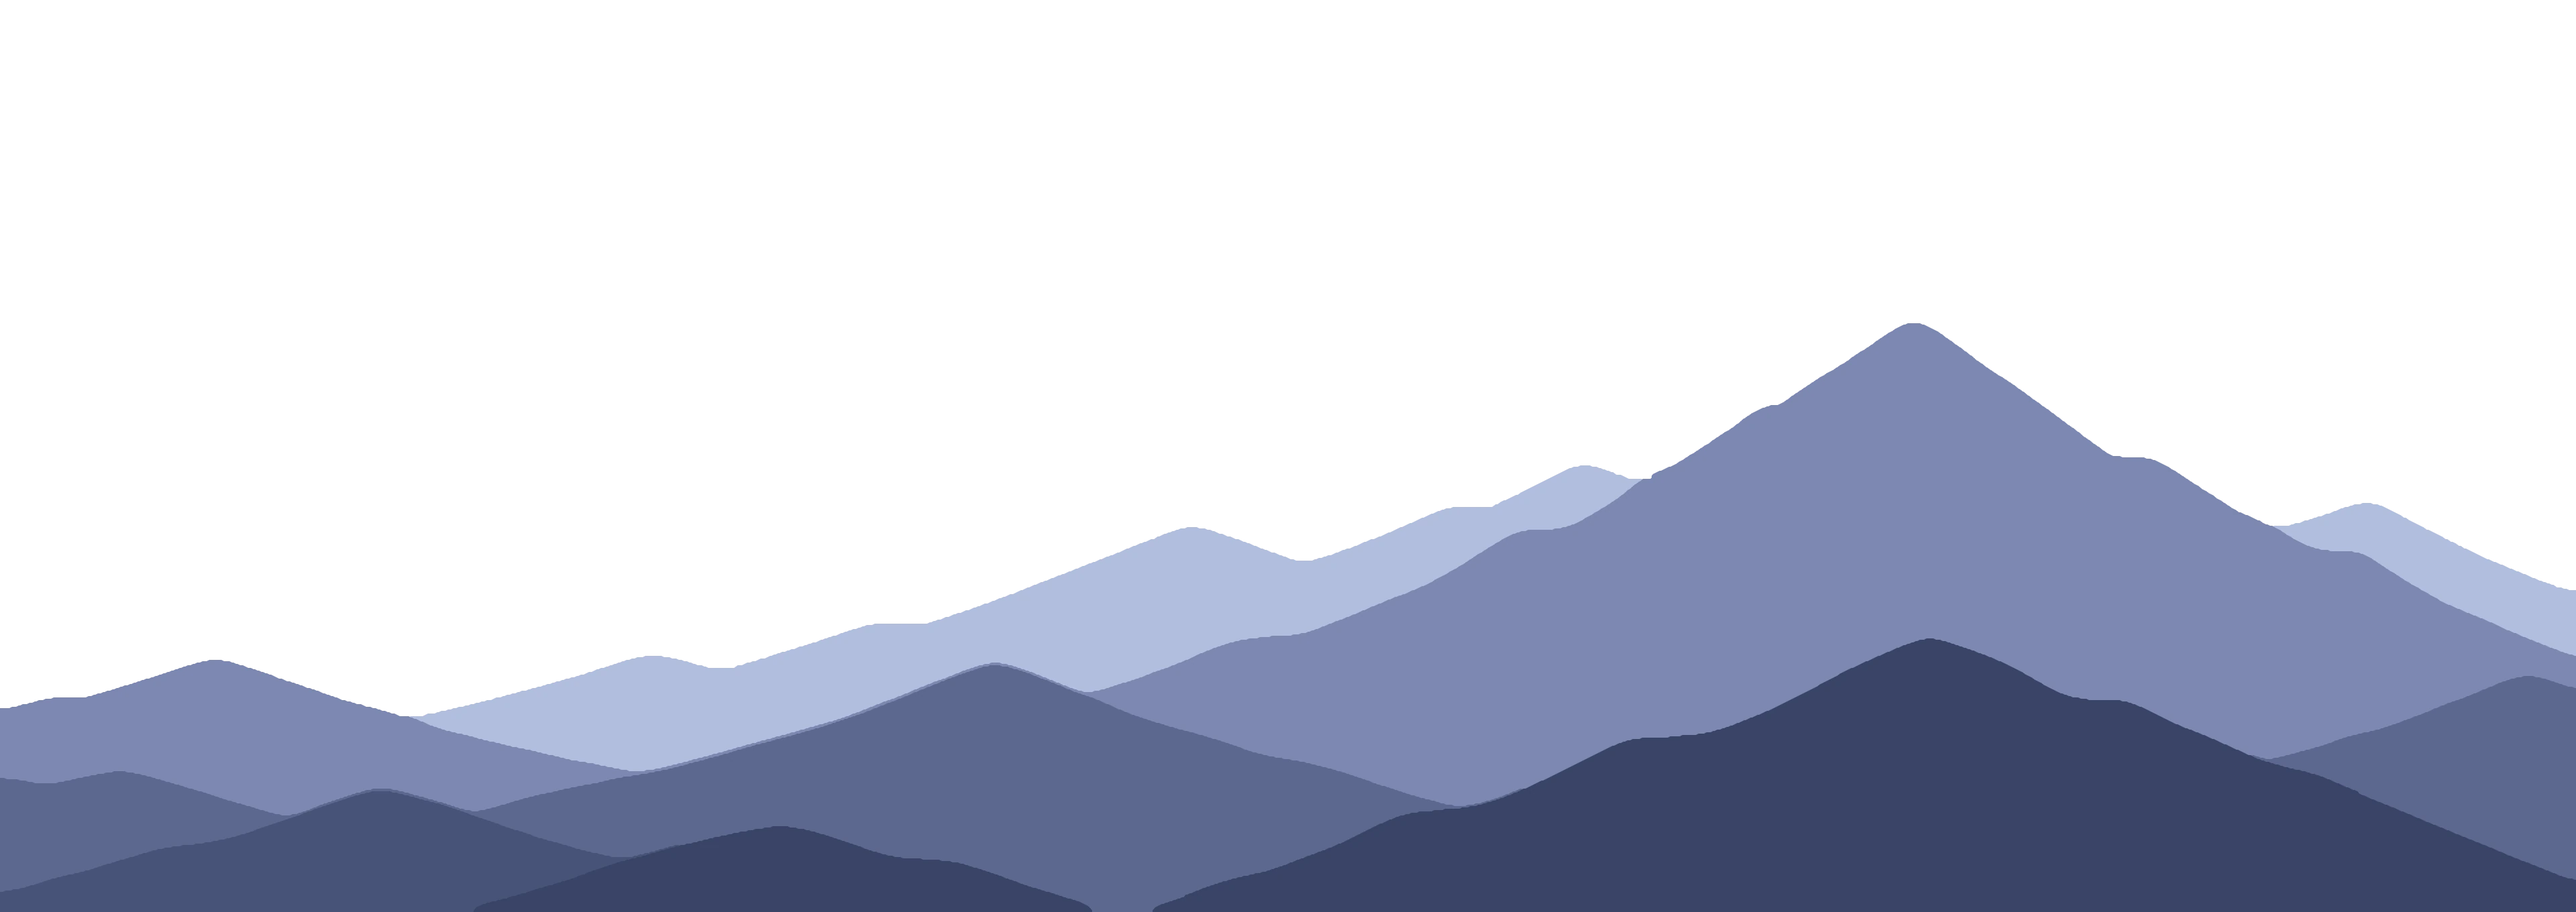
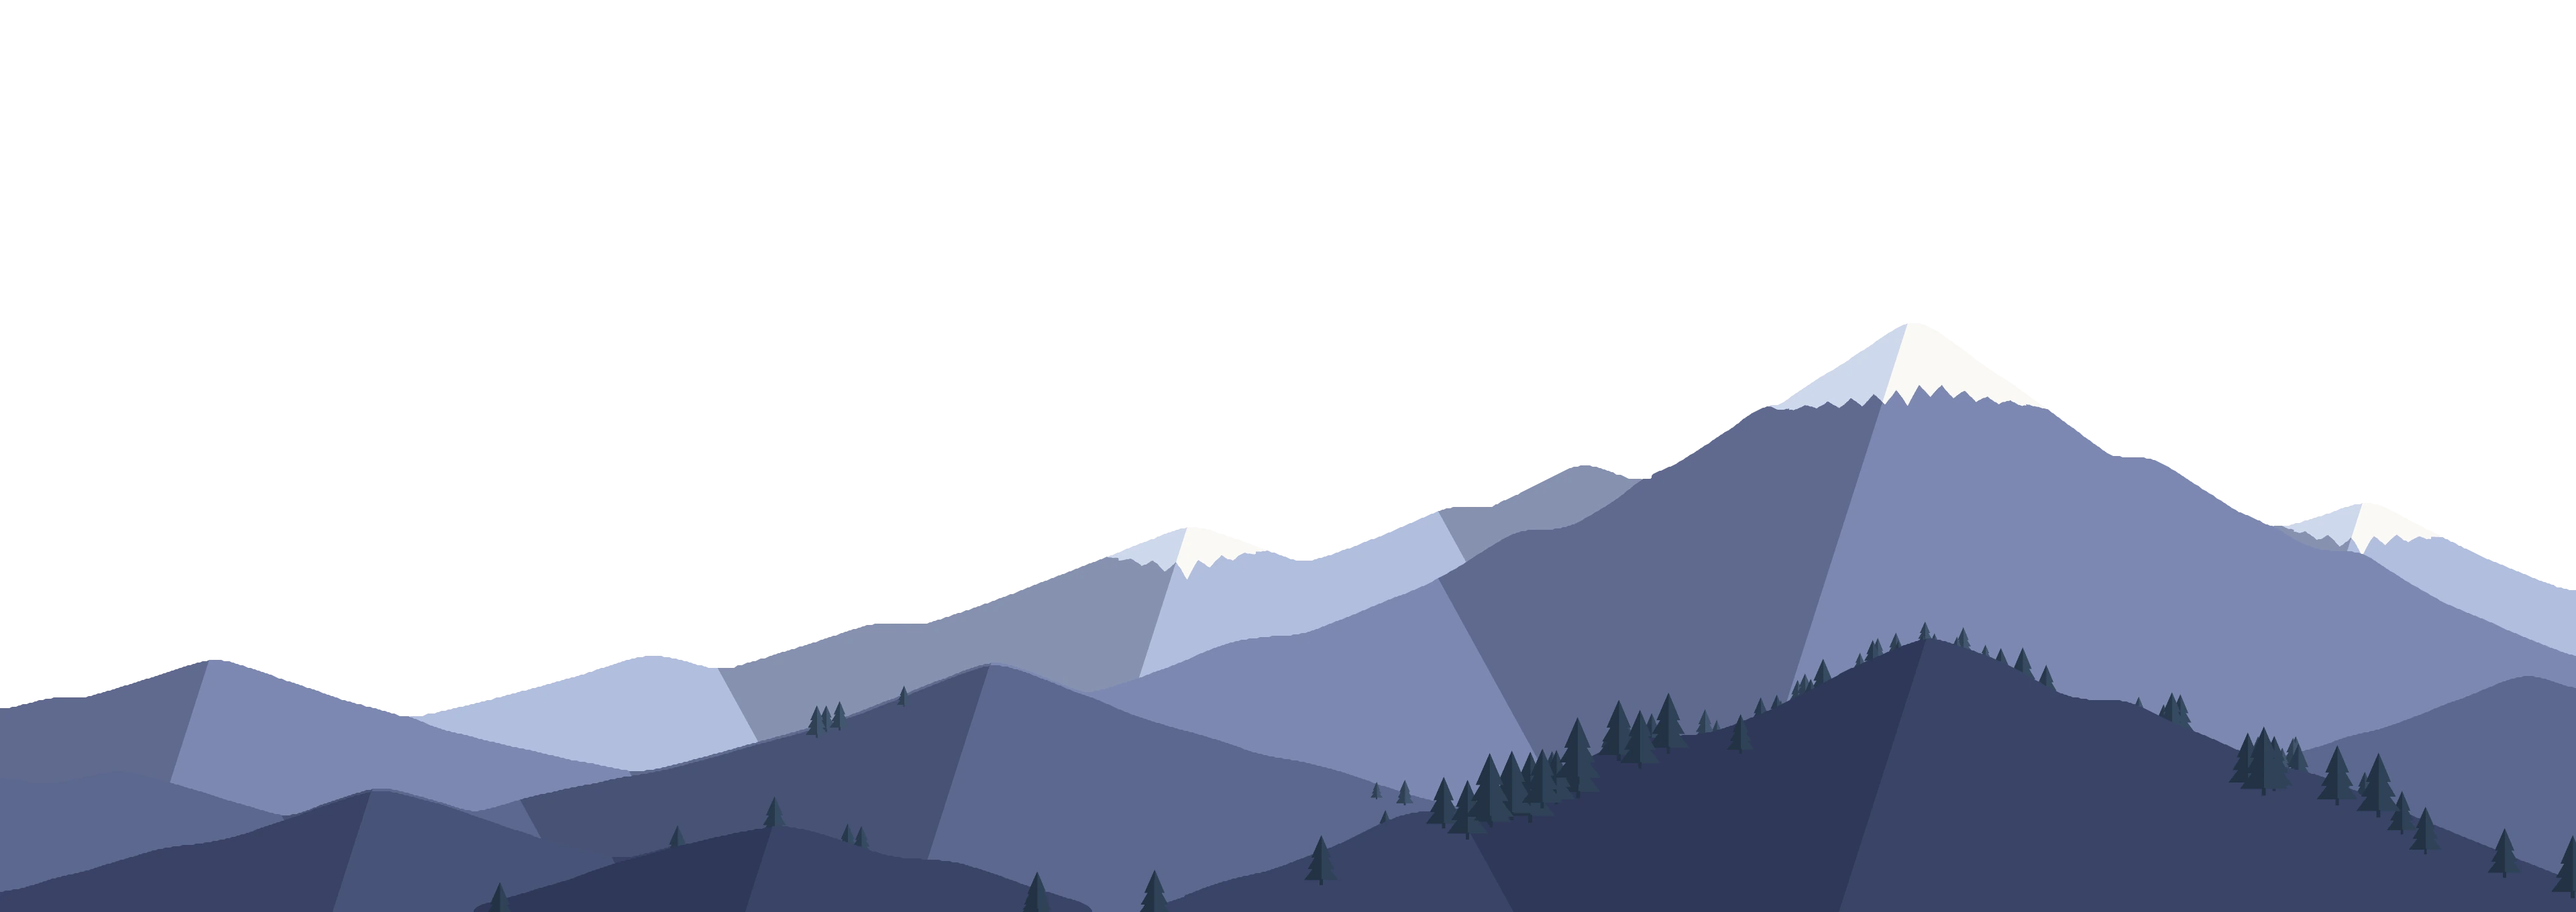
Portada: paisatge amb més detall i animals nous
Les carenes tenen cares d'ombra, neu als cims més alts i pins a les de davant, de dia i de nit.
Al cim gran hi ha una banderola que oneja. La marmota és nova i treu el cap per darrere una
roca, i el mussol ara és sencer, en una branca. La llum del sol i de la lluna és un degradat
radial (l'ombra de caixa deixava un quadre visible al mòbil).

Claude-Session: https://claude.ai/code/session_018p7R4DbNLbmha2nCJ1FnzV

diff --git a/cims.css b/cims.css
@@ -286,7 +286,9 @@ html[data-tema="fosc"] .pn-nuvol, html[data-tema="fosc"] .pn-ocells { opacity: 0
 /* L'escena s'enganxa a baix (abans del degradat cap al paper). Té la proporció del dibuix i, quan la pantalla és més
    estreta, es retalla pels costats deixant el cim al 72 %. Per sota no s'hi veu res (el sol i la lluna s'hi amaguen). */
 .pn-escena { position: absolute; z-index: 1; bottom: calc(var(--fosa) - 1px); left: 72%; translate: -72% 0; width: max(100%, 46svh * 1920 / 680); aspect-ratio: 1920 / 680;
-  clip-path: inset(-100vh -100vw 0 -100vw); pointer-events: none }
+ pointer-events: none }
+/* El sol i la lluna, retallats per sota: quan es ponen, s'amaguen darrere les carenes i no surten pel degradat */
+.pn-astres { position: absolute; left: 0; right: 0; bottom: 0; top: -300%; overflow: hidden }
 .pn-carenes { position: absolute; inset: 0; width: 100%; height: 100%; display: block; user-select: none; transition: opacity var(--pn-durada) var(--ease) }
 .pn-carenes.pn-nit { opacity: 0 }
 html[data-tema="fosc"] .pn-carenes.pn-nit { opacity: 1 }
@@ -294,35 +296,51 @@ html[data-tema="fosc"] .pn-carenes.pn-nit { opacity: 1 }
 .portada-nit::after { content: ""; position: absolute; inset: auto 0 0; height: var(--fosa); background: linear-gradient(var(--pn-terra) 0%, color-mix(in oklab, var(--c-paper) 3%, var(--pn-terra)) 10%, color-mix(in oklab, var(--c-paper) 10%, var(--pn-terra)) 20%, color-mix(in oklab, var(--c-paper) 22%, var(--pn-terra)) 30%, color-mix(in oklab, var(--c-paper) 35%, var(--pn-terra)) 40%, color-mix(in oklab, var(--c-paper) 50%, var(--pn-terra)) 50%, color-mix(in oklab, var(--c-paper) 65%, var(--pn-terra)) 60%, color-mix(in oklab, var(--c-paper) 78%, var(--pn-terra)) 70%, color-mix(in oklab, var(--c-paper) 90%, var(--pn-terra)) 80%, color-mix(in oklab, var(--c-paper) 97%, var(--pn-terra)) 90%, var(--c-paper) 100%); pointer-events: none; z-index: 0 }
 
 /* El sol i la lluna: el logo de CIMS dins d'un disc pla, darrere el cim gran (on hi havia el sol del dibuix) */
-.pn-astre { position: absolute; left: 64.27%; top: -10%; width: 23.75%; aspect-ratio: 1; border-radius: 50%;
+.pn-astre { position: absolute; left: 64.27%; top: calc(75% - 2.5%); width: 23.75%; aspect-ratio: 1; border-radius: 50%;
   transition: translate var(--pn-durada) var(--ease), opacity var(--pn-durada) var(--ease) }
 .pn-astre > svg { position: relative; display: block; width: 100%; height: 100%; overflow: visible }
-.pn-sol { box-shadow: 0 0 80px 10px rgb(255 170 110 / .55), 0 0 220px 60px rgb(255 200 150 / .35) }
+/* La llum al voltant: un degradat radial que s'esvaeix del tot (una ombra de caixa deixava un quadre visible al mòbil) */
+.pn-astre::before { content: ""; position: absolute; inset: -75%; border-radius: 50%; pointer-events: none }
+.pn-sol::before { background: radial-gradient(closest-side, rgb(255 190 130 / .55) 34%, rgb(255 205 160 / .25) 55%, transparent) }
 .pn-sol .pa-disc { fill: var(--pn-corall) } .pn-sol .pa-c { stroke: #fbf3e8 } .pn-sol .pa-a { fill: #ffc2ad; stroke: #ffc2ad } .pn-sol .pa-f { fill: #fbf3e8; stroke: var(--pn-corall) }
 .pn-raigs { position: absolute; inset: -38%; border-radius: 50%; pointer-events: none;
   background: repeating-conic-gradient(rgb(255 236 210 / .5) 0 5deg, transparent 5deg 15deg);
   -webkit-mask-image: radial-gradient(closest-side, #000 52%, transparent); mask-image: radial-gradient(closest-side, #000 52%, transparent) }
-.pn-lluna { box-shadow: 0 0 60px 6px rgb(243 237 226 / .22), 0 0 200px 50px rgb(160 175 220 / .12) }
+.pn-lluna::before { background: radial-gradient(closest-side, rgb(243 237 226 / .22) 34%, rgb(160 175 220 / .1) 58%, transparent) }
 .pn-lluna .pa-disc { fill: #f1ebdf } .pn-lluna .pa-c { stroke: #1f2430 } .pn-lluna .pa-a { fill: #9aa3b5; stroke: #9aa3b5 } .pn-lluna .pa-f { fill: #ff6b57; stroke: #f1ebdf }
 /* Quin dels dos surt: l'altre baixa darrere les carenes */
 .pn-lluna, html[data-tema="fosc"] .pn-sol { translate: 0 175%; opacity: 0 }
 html[data-tema="fosc"] .pn-lluna { translate: 0 0; opacity: 1 }
 
-/* Els animals amagats: la marmota treu el cap per darrere una carena; de nit, uns ulls de mussol a la muntanya */
+/* Els animals amagats: la marmota treu el cap per darrere una roca; de nit, un mussol en una branca. A dalt del cim gran,
+   una banderola corall (fem cim!). */
+html[data-marca="cims"] {
+  --pn-bandera: #151c29; --pn-roca: #6b7596; --pn-roca-ombra: #555e7d; --pn-roca-llum: #8a93b3; --pn-pell-ombra: #6e523e; --pn-rosa: #e8a39a; --pn-ungla: #4a3a30;
+}
+html[data-marca="cims"][data-tema="fosc"] {
+  --pn-bandera: var(--pn-corall); --pn-roca: #2e3650; --pn-roca-ombra: #232a40; --pn-roca-llum: #3c4563; --pn-pell-ombra: #463936; --pn-rosa: #8c5f5c; --pn-ungla: #2a211d;
+}
 .pn-animal { position: absolute; padding: 0; margin: 0; border: 0; background: none; cursor: pointer; pointer-events: auto; -webkit-tap-highlight-color: transparent }
 .pn-animal:focus-visible { outline: 3px solid var(--pn-corall); outline-offset: 4px; border-radius: 8px }
-.pn-marmota { left: 49.2%; bottom: 38.4%; width: 3.4%; min-width: 30px; aspect-ratio: 60 / 64; overflow: hidden; border-radius: 0 }
-.pn-marmota svg { display: block; width: 100%; height: 100%; translate: 0 62%; transition: translate .35s var(--ease) }
-.pn-marmota:hover svg, .pn-marmota:focus-visible svg { translate: 0 44% }
-.pn-marmota.parla svg { translate: 0 6% }
-.pm-pell { fill: var(--pn-pell) } .pm-panxa { fill: var(--pn-panxa) } .pm-orella { fill: var(--pn-orella) } .pm-morro { fill: var(--pn-morro) }
-.pm-ull { fill: #17181d } .pm-brill { fill: #fff } .pm-dents { fill: #fff }
-.pm-pell, .pm-panxa, .pm-orella, .pm-morro { transition: fill var(--pn-durada) var(--ease) }
-.pn-mussol { left: 14.6%; top: 80%; width: 2.6%; min-width: 30px; aspect-ratio: 40 / 16; visibility: hidden; opacity: 0; transition: opacity var(--pn-durada) var(--ease), visibility 0s var(--pn-durada) }
+.pn-animal svg { display: block; width: 100%; height: 100%; overflow: hidden }
+.pn-marmota { left: 38.6%; bottom: calc(100% - 74.6%); width: 6.6%; min-width: 64px; aspect-ratio: 100 / 90 }
+.pm-cos { transform: translateY(24px); transition: transform .4s var(--ease) }
+.pn-marmota:hover .pm-cos, .pn-marmota:focus-visible .pm-cos { transform: translateY(14px) }
+.pn-marmota.parla .pm-cos { transform: translateY(0) }
+.pm-pell { fill: var(--pn-pell) } .pm-ombra { fill: var(--pn-pell-ombra) } .pm-panxa { fill: var(--pn-panxa) } .pm-orella { fill: var(--pn-orella) } .pm-rosa { fill: var(--pn-rosa) }
+.pm-morro { fill: var(--pn-morro) } .pm-ungla { fill: var(--pn-ungla) } .pm-ull { fill: #17181d } .pm-brill { fill: #fff } .pm-dents { fill: #fffaf2 }
+.pm-bigoti, .pm-boca { fill: none; stroke: #17181d; stroke-width: .9; stroke-linecap: round; opacity: .55 } .pm-boca { opacity: .8 }
+.pr-roca { fill: var(--pn-roca) } .pr-ombra { fill: var(--pn-roca-ombra) } .pr-llum { fill: var(--pn-roca-llum) }
+.pm-pell, .pm-ombra, .pm-panxa, .pm-orella, .pm-morro, .pm-rosa, .pr-roca, .pr-ombra, .pr-llum { transition: fill var(--pn-durada) var(--ease) }
+.pn-mussol { left: 13%; bottom: calc(100% - 87.6%); width: 3.8%; min-width: 44px; aspect-ratio: 64 / 84; visibility: hidden; opacity: 0; transition: opacity var(--pn-durada) var(--ease), visibility 0s var(--pn-durada) }
 html[data-tema="fosc"] .pn-mussol { visibility: visible; opacity: 1; transition: opacity var(--pn-durada) var(--ease) 1s, visibility 0s }
-.pn-mussol svg { display: block; width: 100%; height: 100% }
-.po-ull { fill: #f2b544 } .po-nina { fill: #10131c }
+.po-ploma { fill: #5b5068 } .po-ombra { fill: #463d52 } .po-pit { fill: #8d8096 } .po-cara { fill: #b3a6b5 } .po-taques { fill: none; stroke: #5b5068; stroke-width: 1.3; stroke-linecap: round; stroke-linejoin: round }
+.po-ull { fill: #f2b544 } .po-nina { fill: #10131c } .po-bec { fill: #e8824b } .po-urpes { stroke: #e8824b; stroke-width: 1.6; stroke-linecap: round } .po-branca { fill: #241e26 }
+.po-cos { transform-box: fill-box; transform-origin: 50% 100%; transition: rotate .35s var(--ease) }
+.pn-mussol:hover .po-cos, .pn-mussol.parla .po-cos { rotate: -8deg }
 .pn-mussol:hover .po-ull, .pn-mussol.parla .po-ull { fill: #ffd36e }
+.pn-bandera { position: absolute; left: 74.05%; bottom: calc(100% - 35.6%); width: 2px; height: 5%; min-height: 18px; background: var(--pn-text); transition: background-color var(--pn-durada) var(--ease) }
+.pn-bandera::after { content: ""; position: absolute; left: 2px; top: 0; width: 900%; min-width: 16px; aspect-ratio: 3 / 2; height: auto; background: var(--pn-bandera, var(--pn-corall)); clip-path: polygon(0 0, 100% 45%, 0 90%); transform-origin: 0 50% }
 
 /* La bafarada */
 html[data-marca="cims"] .pn-diu { position: absolute; z-index: 3; margin: 0; width: max-content; max-width: min(300px, calc(100vw - 32px)); padding: 12px 16px; border-radius: var(--radi-caixa, 16px);
@@ -358,7 +376,9 @@ html[data-marca="cims"] .pn-diu.visible { opacity: 1 }
   .pn-ocells path:nth-child(2) { animation-delay: -.2s } .pn-ocells path:nth-child(3) { animation-delay: -.35s }
   .pn-estels i { animation: pn-pampalluga var(--t, 4s) ease-in-out var(--d, 0s) infinite }
   html[data-tema="fosc"] .pn-fugac { animation: pn-fugac 9s ease-in 3s infinite }
-  .pn-mussol .po-ull { transform-box: fill-box; transform-origin: center; animation: pn-parpelleja 5s steps(1) infinite }
+  .po-ulls, .pm-ulls { transform-box: fill-box; transform-origin: center; animation: pn-parpelleja 5s steps(1) infinite } .pm-ulls { animation-duration: 4.2s; animation-delay: -1.3s }
+  .pm-orelles { transform-box: fill-box; transform-origin: 50% 100%; animation: pn-orelles 6s ease-in-out infinite }
+  .pn-bandera::after { animation: pn-oneja 1.6s ease-in-out infinite }
   .portada-nit .pn-text > * { animation: pn-text .9s var(--ease) both }
   .portada-nit .pn-text > :nth-child(2) { animation-delay: .08s } .portada-nit .pn-text > :nth-child(3) { animation-delay: .16s } .portada-nit .pn-text > :nth-child(4) { animation-delay: .24s }
   @keyframes pn-puja { from { translate: 0 60px; opacity: 0 } }
@@ -371,10 +391,12 @@ html[data-marca="cims"] .pn-diu.visible { opacity: 1 }
   @keyframes pn-pampalluga { 50% { opacity: calc(var(--o) * .25) } }
   @keyframes pn-fugac { 0% { opacity: 0; translate: 0 0 } 2% { opacity: 1 } 9% { opacity: 0; translate: -420px 150px } 100% { opacity: 0; translate: -420px 150px } }
   @keyframes pn-parpelleja { 0%, 94% { scale: 1 1 } 95%, 98% { scale: 1 .1 } }
+  @keyframes pn-orelles { 0%, 88%, 100% { scale: 1 } 92% { scale: 1.12 .9 } }
+  @keyframes pn-oneja { 50% { transform: skewY(-8deg) scaleX(.86) } }
   @keyframes pn-text { from { translate: 0 16px; opacity: 0 } }
 }
 @media (prefers-reduced-motion: reduce) {
-  .portada-nit, .pn-cel::before, .pn-estels, .pn-carenes, .pn-astre, .pn-nuvol, .pn-ocells, .pn-mussol, .pn-marmota svg, .pn-diu { transition: none }
+  .portada-nit, .pn-cel::before, .pn-estels, .pn-carenes, .pn-astre, .pn-nuvol, .pn-ocells, .pn-mussol, .pm-cos, .po-cos, .pn-diu { transition: none }
 }
 
 /* Canvis de color entre blocs: en lloc d'un tall, un degradat llarg i suau (corba suavitzada, sense ratlla visible).

diff --git a/index.html b/index.html
@@ -36,15 +36,52 @@
     <svg class="pn-ocells" viewBox="0 0 120 40" focusable="false"><path d="M4 20q8-9 16 0q8-9 16 0"/><path d="M50 8q6-7 12 0q6-7 12 0"/><path d="M88 26q7-8 14 0q7-8 14 0"/></svg>
   </div>
   <div class="pn-escena">
-    <div class="pn-astre pn-sol" aria-hidden="true"><span class="pn-raigs"></span><svg viewBox="0 0 100 100" aria-hidden="true" focusable="false"><circle class="pa-disc" cx="50" cy="50" r="50"/><path class="pa-c" d="M 74.51 29.43 A 32 32 0 1 0 74.51 70.57" fill="none" stroke-width="10" stroke-linecap="round"/><polygon class="pa-a" points="31.44,63.12 46.16,36.88 60.88,63.12" stroke-width="1.5" stroke-linejoin="round"/><polygon class="pa-f" points="44.88,63.12 57.04,42.64 68.56,63.12" stroke-width="2.5" stroke-linejoin="round"/></svg></div>
-    <div class="pn-astre pn-lluna" aria-hidden="true"><svg viewBox="0 0 100 100" aria-hidden="true" focusable="false"><circle class="pa-disc" cx="50" cy="50" r="50"/><path class="pa-c" d="M 74.51 29.43 A 32 32 0 1 0 74.51 70.57" fill="none" stroke-width="10" stroke-linecap="round"/><polygon class="pa-a" points="31.44,63.12 46.16,36.88 60.88,63.12" stroke-width="1.5" stroke-linejoin="round"/><polygon class="pa-f" points="44.88,63.12 57.04,42.64 68.56,63.12" stroke-width="2.5" stroke-linejoin="round"/></svg></div>
+    <div class="pn-astres">
+      <div class="pn-astre pn-sol" aria-hidden="true"><span class="pn-raigs"></span><svg viewBox="0 0 100 100" aria-hidden="true" focusable="false"><circle class="pa-disc" cx="50" cy="50" r="50"/><path class="pa-c" d="M 74.51 29.43 A 32 32 0 1 0 74.51 70.57" fill="none" stroke-width="10" stroke-linecap="round"/><polygon class="pa-a" points="31.44,63.12 46.16,36.88 60.88,63.12" stroke-width="1.5" stroke-linejoin="round"/><polygon class="pa-f" points="44.88,63.12 57.04,42.64 68.56,63.12" stroke-width="2.5" stroke-linejoin="round"/></svg></div>
+      <div class="pn-astre pn-lluna" aria-hidden="true"><svg viewBox="0 0 100 100" aria-hidden="true" focusable="false"><circle class="pa-disc" cx="50" cy="50" r="50"/><path class="pa-c" d="M 74.51 29.43 A 32 32 0 1 0 74.51 70.57" fill="none" stroke-width="10" stroke-linecap="round"/><polygon class="pa-a" points="31.44,63.12 46.16,36.88 60.88,63.12" stroke-width="1.5" stroke-linejoin="round"/><polygon class="pa-f" points="44.88,63.12 57.04,42.64 68.56,63.12" stroke-width="2.5" stroke-linejoin="round"/></svg></div>
+    </div>
     <img class="pn-carenes pn-dia" src="imatges/carenes-dia.webp" width="3840" height="1360" alt="" decoding="async" fetchpriority="high">
     <img class="pn-carenes pn-nit" src="imatges/carenes-nit.webp" width="3840" height="1360" alt="" decoding="async">
-    <button class="pn-animal pn-marmota" type="button" aria-label="Una marmota amagada. Prem-la perquè digui alguna cosa." aria-describedby="pn-diu">
-      <svg viewBox="0 0 60 64" aria-hidden="true" focusable="false"><g class="pm-cos"><ellipse class="pm-pell" cx="30" cy="50" rx="21" ry="20"/><ellipse class="pm-panxa" cx="30" cy="54" rx="11" ry="13"/><circle class="pm-orella" cx="17" cy="12" r="5"/><circle class="pm-orella" cx="43" cy="12" r="5"/><ellipse class="pm-pell" cx="30" cy="24" rx="17" ry="15"/><ellipse class="pm-morro" cx="30" cy="30" rx="8" ry="6"/><circle class="pm-ull" cx="23.5" cy="21" r="2.4"/><circle class="pm-ull" cx="36.5" cy="21" r="2.4"/><circle class="pm-brill" cx="24.3" cy="20.2" r=".8"/><circle class="pm-brill" cx="37.3" cy="20.2" r=".8"/><ellipse class="pm-ull" cx="30" cy="27" rx="2.6" ry="1.9"/><rect class="pm-dents" x="27.4" y="32" width="2.4" height="3.4" rx=".6"/><rect class="pm-dents" x="30.2" y="32" width="2.4" height="3.4" rx=".6"/></g></svg>
+    <span class="pn-bandera" aria-hidden="true"></span>
+    <button class="pn-animal pn-marmota" type="button" aria-label="Una marmota amagada darrere una roca. Prem-la perquè digui alguna cosa." aria-describedby="pn-diu">
+      <svg viewBox="0 0 100 90" aria-hidden="true" focusable="false">
+        <g class="pm-cos">
+          <path class="pm-pell" d="M28 92C25 68 32 49 50 47C68 49 75 68 72 92Z"/>
+          <path class="pm-ombra" d="M28 92C25 68 32 49 50 47C41 53 37 70 39 92Z"/>
+          <ellipse class="pm-panxa" cx="50" cy="73" rx="12" ry="16"/>
+          <ellipse class="pm-pell" cx="43.5" cy="61" rx="5.5" ry="4.5"/><ellipse class="pm-pell" cx="56.5" cy="61" rx="5.5" ry="4.5"/>
+          <ellipse class="pm-ungla" cx="45" cy="64" rx="3.2" ry="2"/><ellipse class="pm-ungla" cx="55" cy="64" rx="3.2" ry="2"/>
+          <g class="pm-orelles"><circle class="pm-orella" cx="35" cy="19" r="5.2"/><circle class="pm-rosa" cx="35" cy="19.4" r="2.6"/><circle class="pm-orella" cx="65" cy="19" r="5.2"/><circle class="pm-rosa" cx="65" cy="19.4" r="2.6"/></g>
+          <ellipse class="pm-pell" cx="50" cy="32" rx="19" ry="16"/>
+          <path class="pm-ombra" d="M31 32C31 22 39 16 50 16C42 18 36 24 35.5 33C35 39 37 43 40 46C35 44 31 39 31 32Z"/>
+          <ellipse class="pm-pell" cx="38" cy="38.5" rx="8" ry="6"/><ellipse class="pm-pell" cx="62" cy="38.5" rx="8" ry="6"/>
+          <ellipse class="pm-morro" cx="50" cy="39.5" rx="9.5" ry="7"/>
+          <path class="pm-bigoti" d="M42 39.5L32 37.5M42 41.5L32.5 42.5M58 39.5L68 37.5M58 41.5L67.5 42.5"/>
+          <ellipse class="pm-ull" cx="50" cy="35.2" rx="3.4" ry="2.4"/>
+          <path class="pm-boca" d="M50 37.5V40M46.5 40.5Q50 42.5 53.5 40.5"/>
+          <rect class="pm-dents" x="47.6" y="41" width="2.3" height="3.6" rx=".7"/><rect class="pm-dents" x="50.1" y="41" width="2.3" height="3.6" rx=".7"/>
+          <g class="pm-ulls"><circle class="pm-ull" cx="42" cy="29" r="3"/><circle class="pm-ull" cx="58" cy="29" r="3"/><circle class="pm-brill" cx="43" cy="28" r="1.1"/><circle class="pm-brill" cx="59" cy="28" r="1.1"/></g>
+        </g>
+        <path class="pr-roca" d="M2 92L7 72L21 61L39 64L52 58L71 62L87 67L98 92Z"/>
+        <path class="pr-ombra" d="M52 58L71 62L87 67L98 92L62 92L57 70Z"/>
+        <path class="pr-llum" d="M7 72L21 61L39 64L27 69Z"/>
+      </svg>
     </button>
-    <button class="pn-animal pn-mussol" type="button" aria-label="Uns ulls a les fosques. Prem-los perquè diguin alguna cosa." aria-describedby="pn-diu">
-      <svg viewBox="0 0 40 16" aria-hidden="true" focusable="false"><circle class="po-ull" cx="10" cy="8" r="6"/><circle class="po-ull" cx="30" cy="8" r="6"/><circle class="po-nina" cx="10" cy="8" r="2.6"/><circle class="po-nina" cx="30" cy="8" r="2.6"/></svg>
+    <button class="pn-animal pn-mussol" type="button" aria-label="Un mussol a les fosques. Prem-lo perquè digui alguna cosa." aria-describedby="pn-diu">
+      <svg viewBox="0 0 64 84" aria-hidden="true" focusable="false">
+        <path class="po-branca" d="M0 74L64 69V74.5L0 79.5Z"/><path class="po-branca" d="M46 70L56 60L58 61.5L50 71Z"/>
+        <g class="po-cos">
+          <ellipse class="po-ploma" cx="32" cy="50" rx="17" ry="21"/>
+          <path class="po-ombra" d="M15 50C15 37 22 29 32 29C25 34 22 42 22.5 52C23 61 26 67 30 71C21 69 15 61 15 50Z"/>
+          <ellipse class="po-pit" cx="32" cy="56" rx="10.5" ry="13"/>
+          <path class="po-taques" d="M27 51l2 2 2-2M33 51l2 2 2-2M30 57l2 2 2-2M27 62l2 2 2-2M33 62l2 2 2-2"/>
+          <path class="po-ploma" d="M15 27L19 13L27 25Z"/><path class="po-ploma" d="M49 27L45 13L37 25Z"/>
+          <circle class="po-cara" cx="24.5" cy="35" r="9.5"/><circle class="po-cara" cx="39.5" cy="35" r="9.5"/>
+          <g class="po-ulls"><circle class="po-ull" cx="24.5" cy="35" r="6.2"/><circle class="po-ull" cx="39.5" cy="35" r="6.2"/><circle class="po-nina" cx="25" cy="35.4" r="3.1"/><circle class="po-nina" cx="39" cy="35.4" r="3.1"/><circle class="pm-brill" cx="26.2" cy="34" r="1.1"/><circle class="pm-brill" cx="40.2" cy="34" r="1.1"/></g>
+          <path class="po-bec" d="M29.6 40.5H34.4L32 46Z"/>
+          <path class="po-urpes" d="M26 70.5v3.5M28.5 70.5v3.5M35.5 70.5v3.5M38 70.5v3.5"/>
+        </g>
+      </svg>
     </button>
   </div>
   <p class="pn-diu" id="pn-diu" role="status" aria-live="polite"></p>
